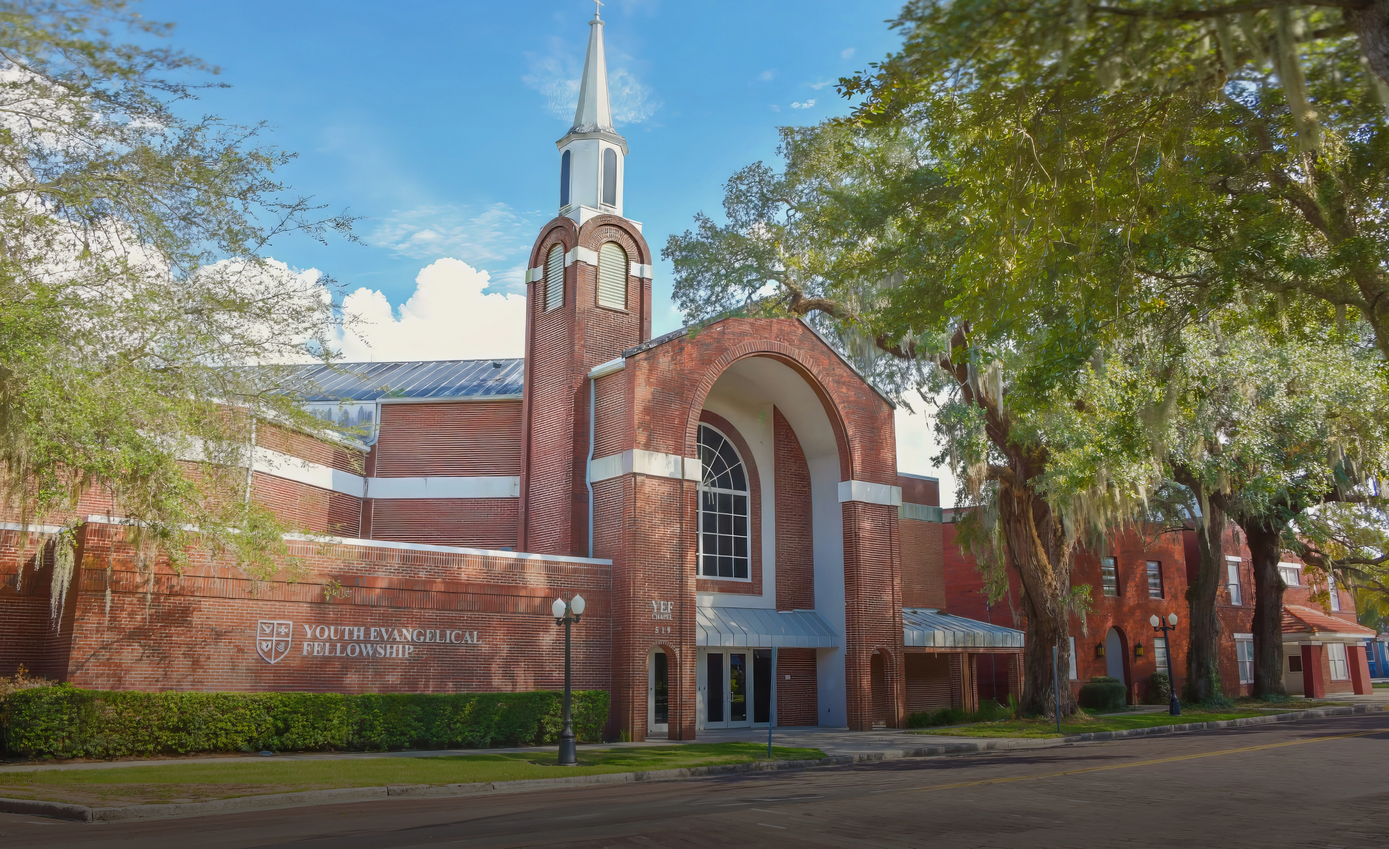
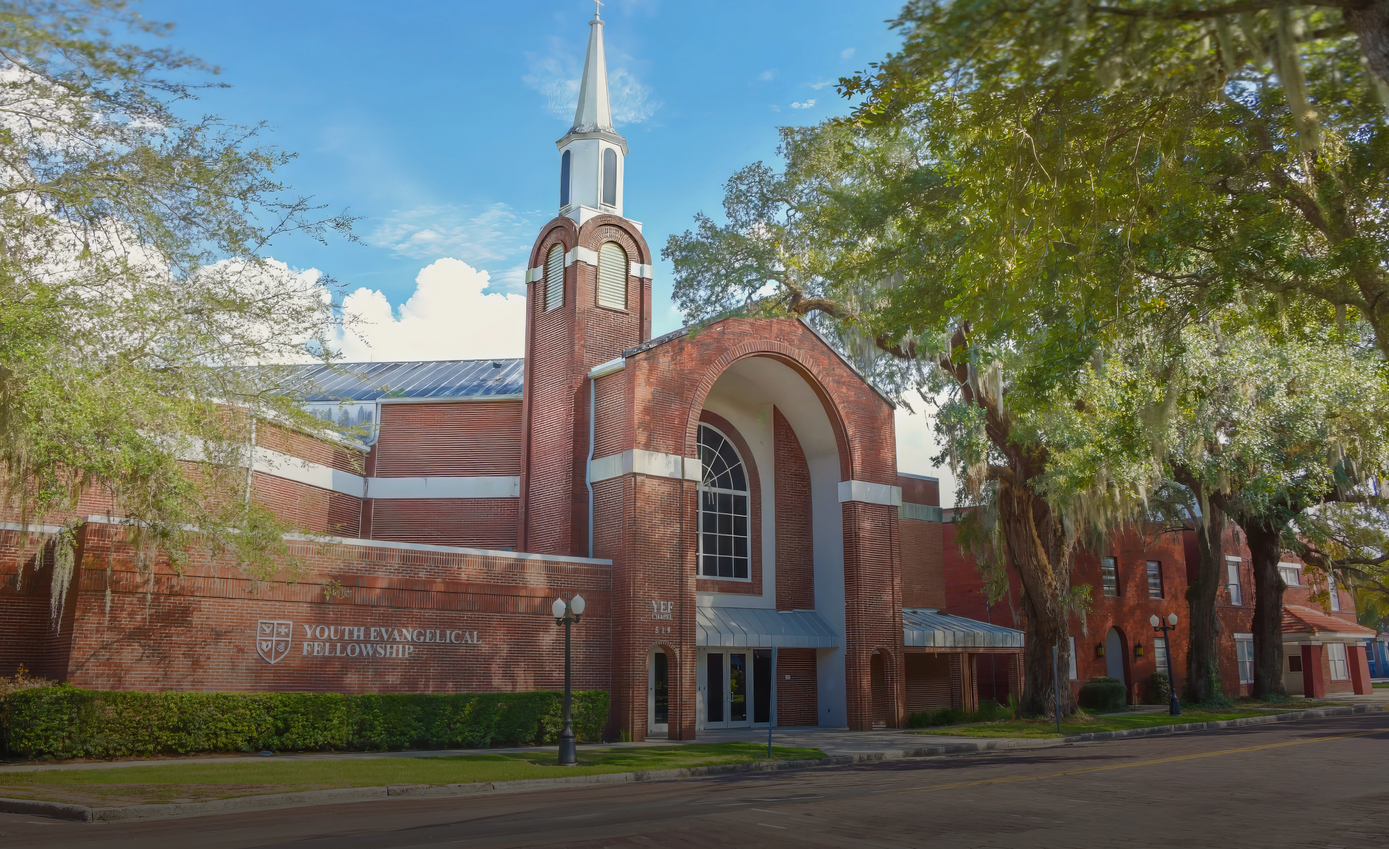
Update hero church/student slide copy and swap church photo
Matched the Figma comparison (Main_banner3 / main_banner2 screenshots):
- Church slide: new copy "For Christ. For the Campus. For the Nations."
  (Main_banner3's spec — font size/tracking/button already matched our
  existing markup exactly, so only the text and photo changed)
- Student slide: new copy "Reaching Students. Raising Disciples." with
  its own "FIND YOUR CAMPUS" button instead of the shared "LEARN MORE"
- HeroSlide now carries an optional per-slide button (label + href);
  slides without one keep the default LEARN MORE → /who-we-are
- FIND YOUR CAMPUS scrolls to the campusFinder section right below the
  hero, which now carries id="find-your-campus" (scroll-mt-24 to clear
  the fixed nav)
- Replaced hero-headquarters.webp with the new church photo supplied

Changed region(s): [[0.0, 0.5601, 0.7188, 0.809], [0.75, 0.5912, 1.0, 0.809], [0.6562, 0.5601, 0.6875, 0.5912]]

diff --git a/src/components/home-v2/Hero.tsx b/src/components/home-v2/Hero.tsx
@@ -12,6 +12,7 @@ export type HeroSlide = {
   alt: string;
   heading: string;
   body: string;
+  button?: { label: string; href: string };
 };
 
 const defaultSlides: HeroSlide[] = [
@@ -24,14 +25,15 @@ const defaultSlides: HeroSlide[] = [
   {
     image: "/images/home-v2/hero-headquarters.webp",
     alt: "Youth Evangelical Fellowship headquarters building",
-    heading: "Join Us\nToday",
-    body: "Be part of YEF, Become True Disciples of Christ.",
+    heading: "For Christ.\nFor the Campus.\nFor the Nations.",
+    body: "We exist to help students know Christ, live for Him on campus, and carry the Gospel to the nations.",
   },
   {
     image: "/images/home-v2/slide-2-students.webp",
     alt: "Students smiling together on a mission trip",
-    heading: "Grow Together\nin Christ.",
-    body: "Join YEF Campus Chapter, Fellowship in Christ",
+    heading: "Reaching Students.\nRaising Disciples.",
+    body: "A global evangelical campus fellowship sharing the Gospel, teaching the Bible, and raising disciples of Jesus Christ.",
+    button: { label: "FIND YOUR CAMPUS", href: "#find-your-campus" },
   },
 ];
 
@@ -99,10 +101,10 @@ export default function Hero({ slides: fromCms }: { slides?: HeroSlide[] }) {
                 {t(slide.body)}
               </p>
               <Link
-                href="/who-we-are"
+                href={slide.button?.href ?? "/who-we-are"}
                 className="mt-10 inline-flex h-[47px] items-center justify-center rounded-full border border-white/55 px-[34px] py-4 font-semibold text-xs tracking-[1.92px] text-white transition-colors hover:bg-white hover:text-v2-navy"
               >
-                {t("LEARN MORE")}
+                {t(slide.button?.label ?? "LEARN MORE")}
               </Link>
             </div>
           ))}

diff --git a/src/components/home-v2/FindYourCampus.tsx b/src/components/home-v2/FindYourCampus.tsx
@@ -19,7 +19,7 @@ export default function FindYourCampus() {
   const [active, setActive] = useState(chips[0]);
 
   return (
-    <section className="font-body bg-v2-bg">
+    <section id="find-your-campus" className="font-body bg-v2-bg scroll-mt-24">
       <div className="mx-auto max-w-[1920px] px-6 py-24 text-center sm:px-10 lg:px-19">
         <Reveal>
           <h2 className="font-display font-bold text-4xl text-v2-navy tracking-[-0.4px] sm:text-5xl lg:text-[58px]">
